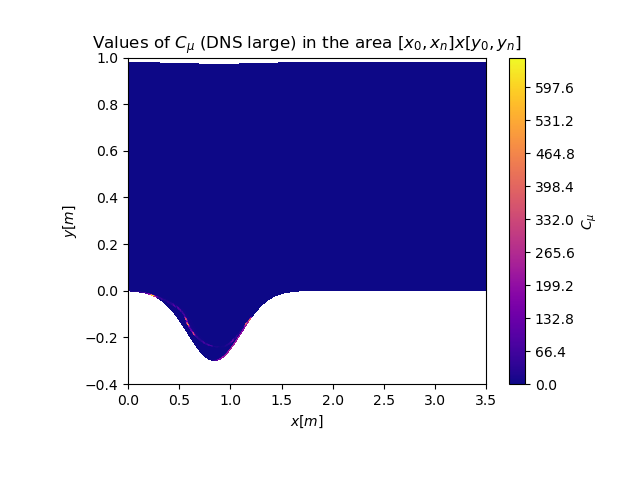
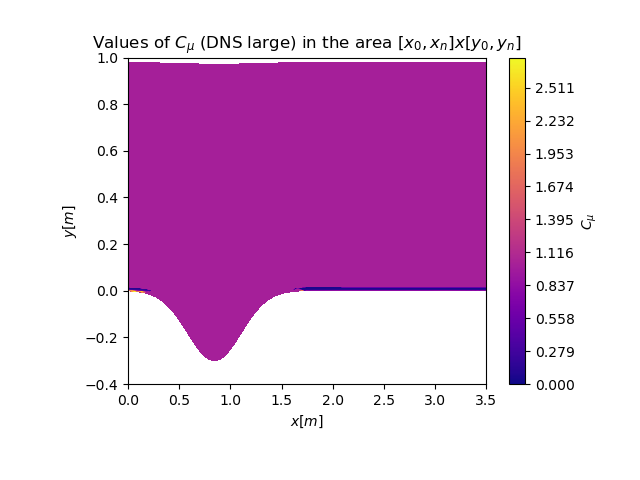
testing conditions

diff --git a/pl_vect2d-1.py b/pl_vect2d-1.py
@@ -180,7 +180,7 @@ omega = eps_DNS2d / k2d / 0.09
 
 # Compute C_my and ||duidxj|| to train model
 cmy_DNS = np.array(-uv2d / (k2d * (dudy + dvdx)) * omega)
-# cmy_DNS = np.where(abs(dudy + dvdx) < 1, 1, cmy_DNS)
+cmy_DNS = np.where(abs(dudy + dvdx) < 15, 1, cmy_DNS)
 cmy_DNS = np.where(cmy_DNS > 0, cmy_DNS, 1)
 cmy_DNS = np.where(cmy_DNS <= 3, cmy_DNS, 1)
 
@@ -375,7 +375,7 @@ print("Starting ML new case")
 omega_large = eps_DNS2d_large / k_DNS2d / 0.09
 
 cmy_DNS_large = np.array(-uv2d_large / (k_DNS2d * (dudy_large + dvdx_large)) * omega_large)
-# cmy_DNS_large = np.where(abs(dudy_large+dvdx_large) < 1, 1, cmy_DNS_large)
+# cmy_DNS_large = np.where(abs(dudy_large+dvdx_large) < 15, 1, cmy_DNS_large)
 cmy_DNS_large = np.where(cmy_DNS_large > 0, cmy_DNS_large, 1)
 cmy_DNS_large = np.where(cmy_DNS_large <= 3, cmy_DNS_large, 1)
 
